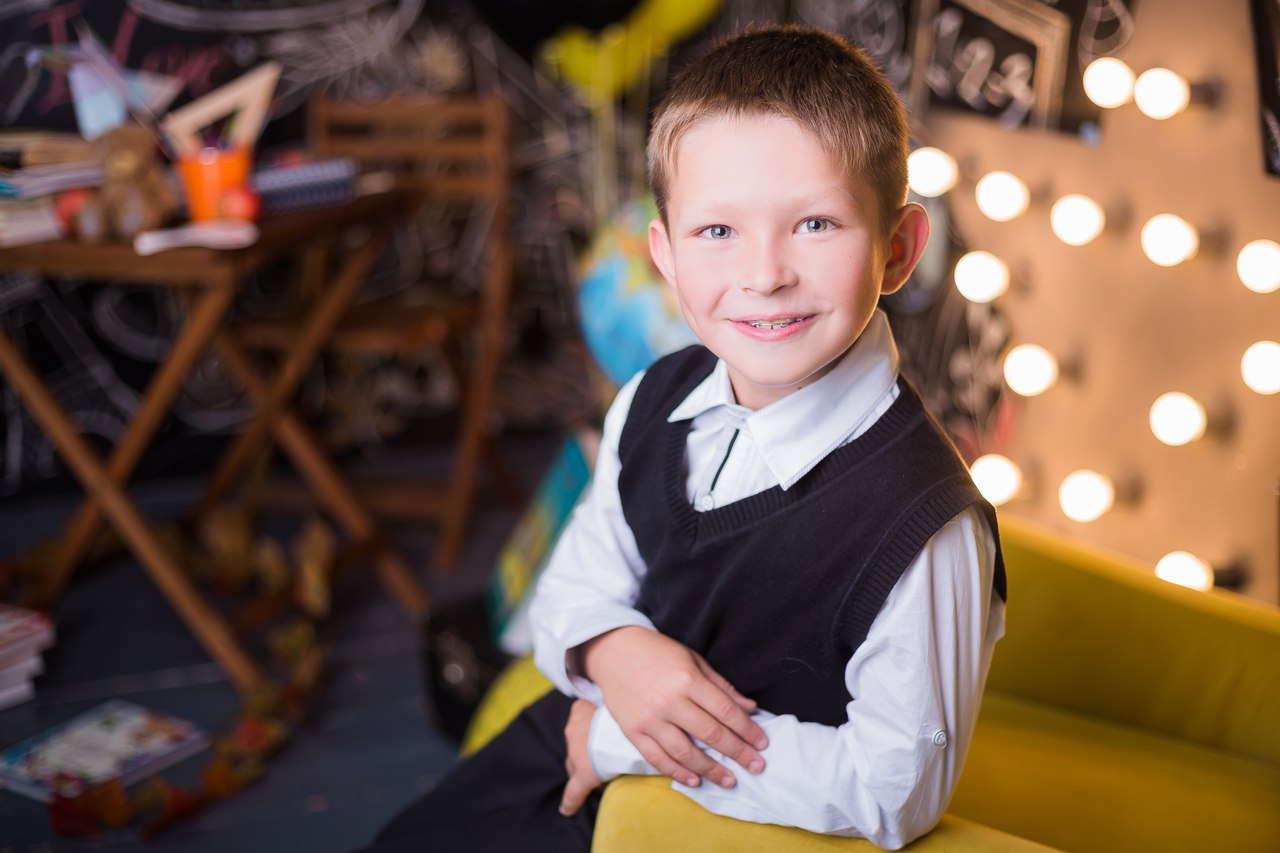
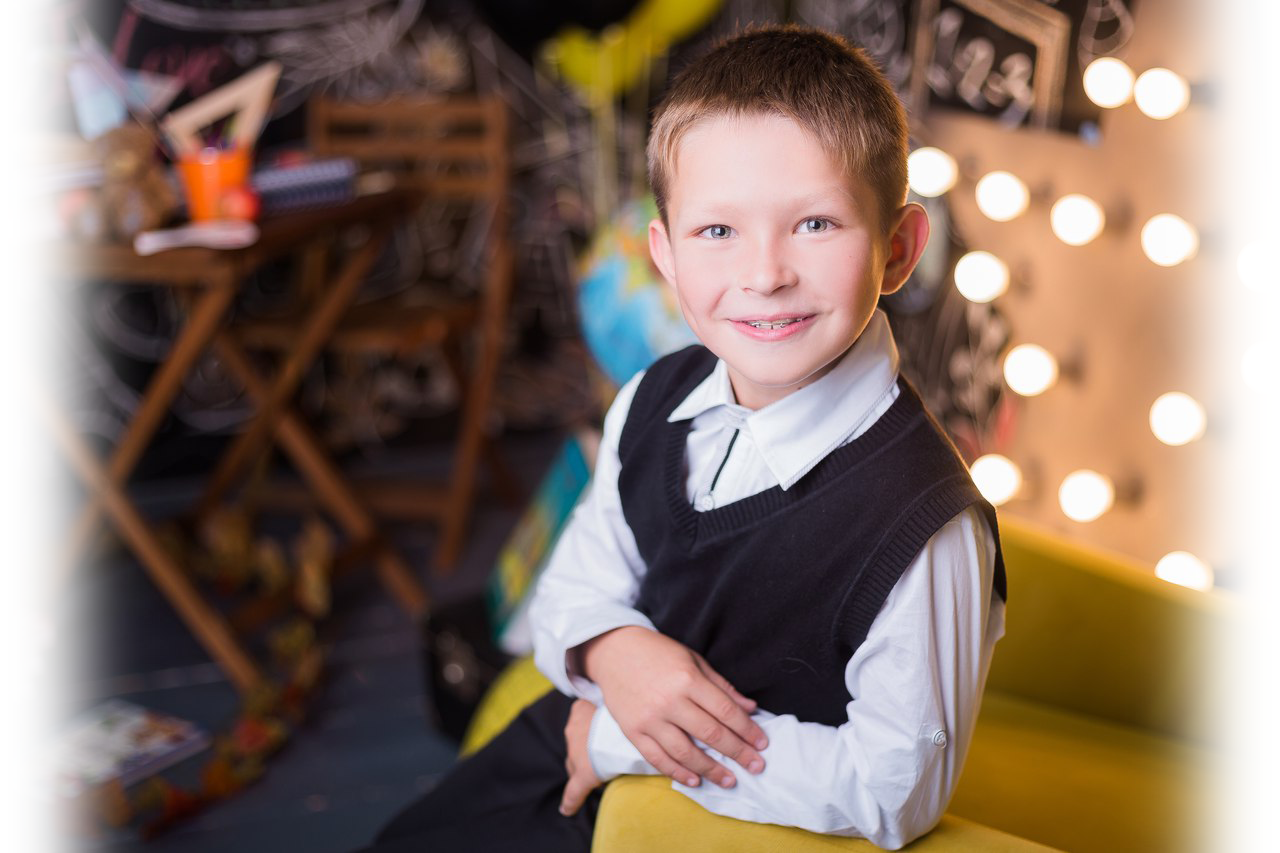
- Graduations fix bg image blur

Changed region(s): [[0.0, 0.0, 0.0938, 1.0], [0.9062, 0.0, 1.0, 1.0]]

diff --git a/static/scss/_plate.scss b/static/scss/_plate.scss
@@ -162,7 +162,11 @@
   align-content: center;
   justify-content: center;
   position: absolute;
-  background-color: rgba(128, 128, 128, 0);
+  background-color: rgba(0, 0, 0, 0); // background: rgba(17, 162, 238, 0);
+  // background: -webkit-linear-gradient(77deg, rgba(17, 162, 238, 0) 0%, rgba(233, 180, 255, 0) 100%);
+  // background: -o-linear-gradient(77deg, rgba(17, 162, 238, 0) 0%, rgba(233, 180, 255, 0) 100%);
+  // background: -ms-linear-gradient(77deg, rgba(17, 162, 238, 0) 0%, rgba(233, 180, 255, 0) 100%);
+  // background: linear-gradient(77deg, rgba(17, 162, 238, 0) 0%, rgba(233, 180, 255, 0) 100%);
   top: 0;
   left: 0;
   bottom: 0;
